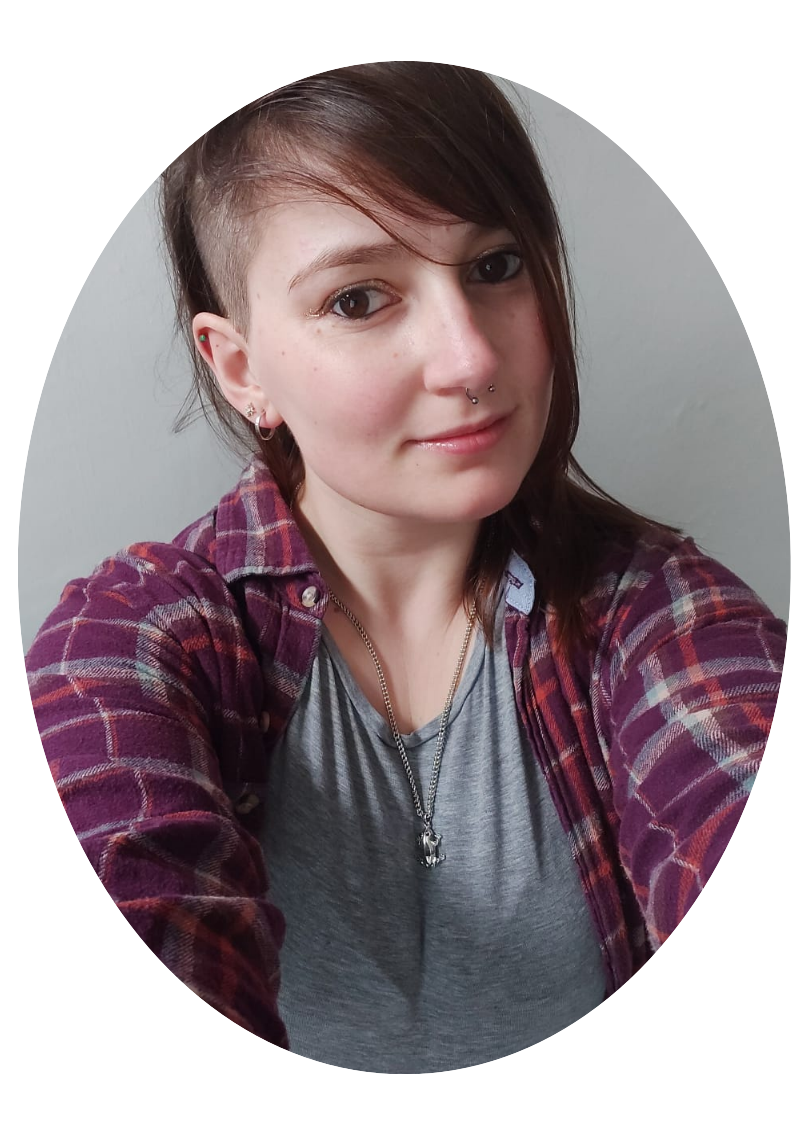
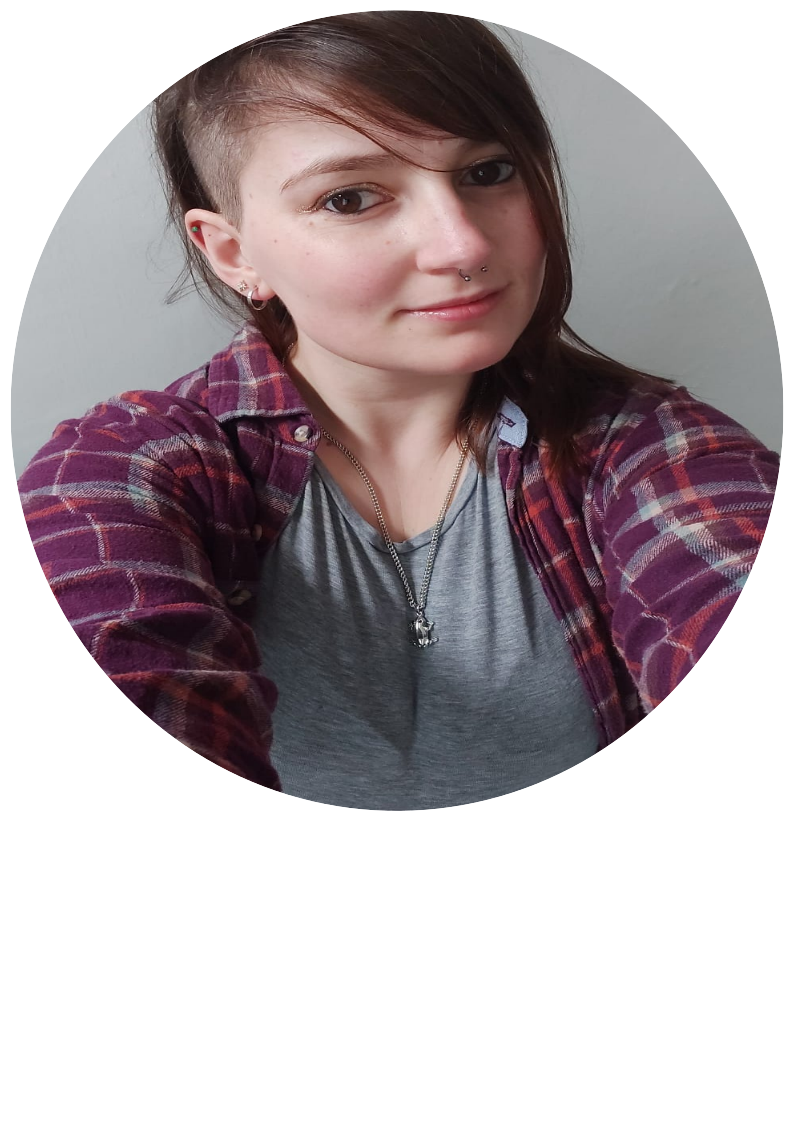
elements on home page are now styled

diff --git a/style.css b/style.css
@@ -22,7 +22,8 @@ a, .btn {
    transition: all 300ms ease; 
 }
 
-nav, .nav-links {
+nav, 
+.nav-links {
     display: flex;
 }
 
@@ -128,10 +129,118 @@ a:hover {
     transform: none;
 }
 
-.hamburger-icon span:nth-child(2) {
+.hamburger-icon span:first-child {
     opacity:1
 }
 
-.hamburger-icon span:last-child {
+.hamburger-icon span:first-child {
     transform: none;
+}
+
+section {
+    padding-top: 4vh; 
+    height: 96vh;
+    margin: 0 10rem;
+    box-sizing: border-box;
+    min-height: fit-content;
+}
+
+.section-container {
+    display: flex;
+}
+
+#profile {
+    display: flex;
+    justify-content: center; 
+    gap: 5rem; 
+    height: 40vh; 
+}
+
+.section__pic-container {
+    display: flex;
+    height: 400px; 
+    width: 400px; 
+    margin: auto 0; 
+
+}
+
+.section__text {
+    align-self: center; 
+    text-align: center;
+}
+
+.section__text p {
+    font-weight: 600; 
+}
+
+.section__text__p1 {
+    text-align: center; 
+}
+
+.section__text__p2 {
+    font-size: 1.75rem; 
+    margin-bottom: 1rem;
+}
+
+.title {
+    font-size: 3rem; 
+    text-align: center;
+}
+
+#socials-container {
+    display: flex; 
+    justify-content: center; 
+    margin-top: 1rem; 
+    gap: 1rem;
+}
+
+.icon { 
+    cursor: pointer;
+    height: 2rem; 
+}
+
+.btn-container {
+    display: flex;
+    justify-content: center; 
+    gap: 1rem; 
+}
+
+.btn {
+    font-weight: 600; 
+    transition: all 300ms ease;
+    padding: 1rem; 
+    width: 8rem; 
+    border-radius: 2rem;  
+}
+
+.btn-color-1, 
+.btn-color-2 { 
+    border: rgb(53,53,53) 0.1rem solid
+}
+
+.btn-color-1:hover, 
+.btn-color-2:hover { 
+    cursor: pointer;
+}
+
+.btn-color-1, 
+.btn-color-2:hover{ 
+    background: rgb(53,53,53);
+    color: white; 
+}
+
+.btn-color-1:hover {
+    background: rgb(53,53,53)
+}
+
+.btn-color-2 {
+    background: none; 
+}
+
+.btn-color-2:hover {
+    border: rgb(255,255,255) 0.1rem solid;
+}
+
+.btn-container { 
+    gap: 1rem;
 }
